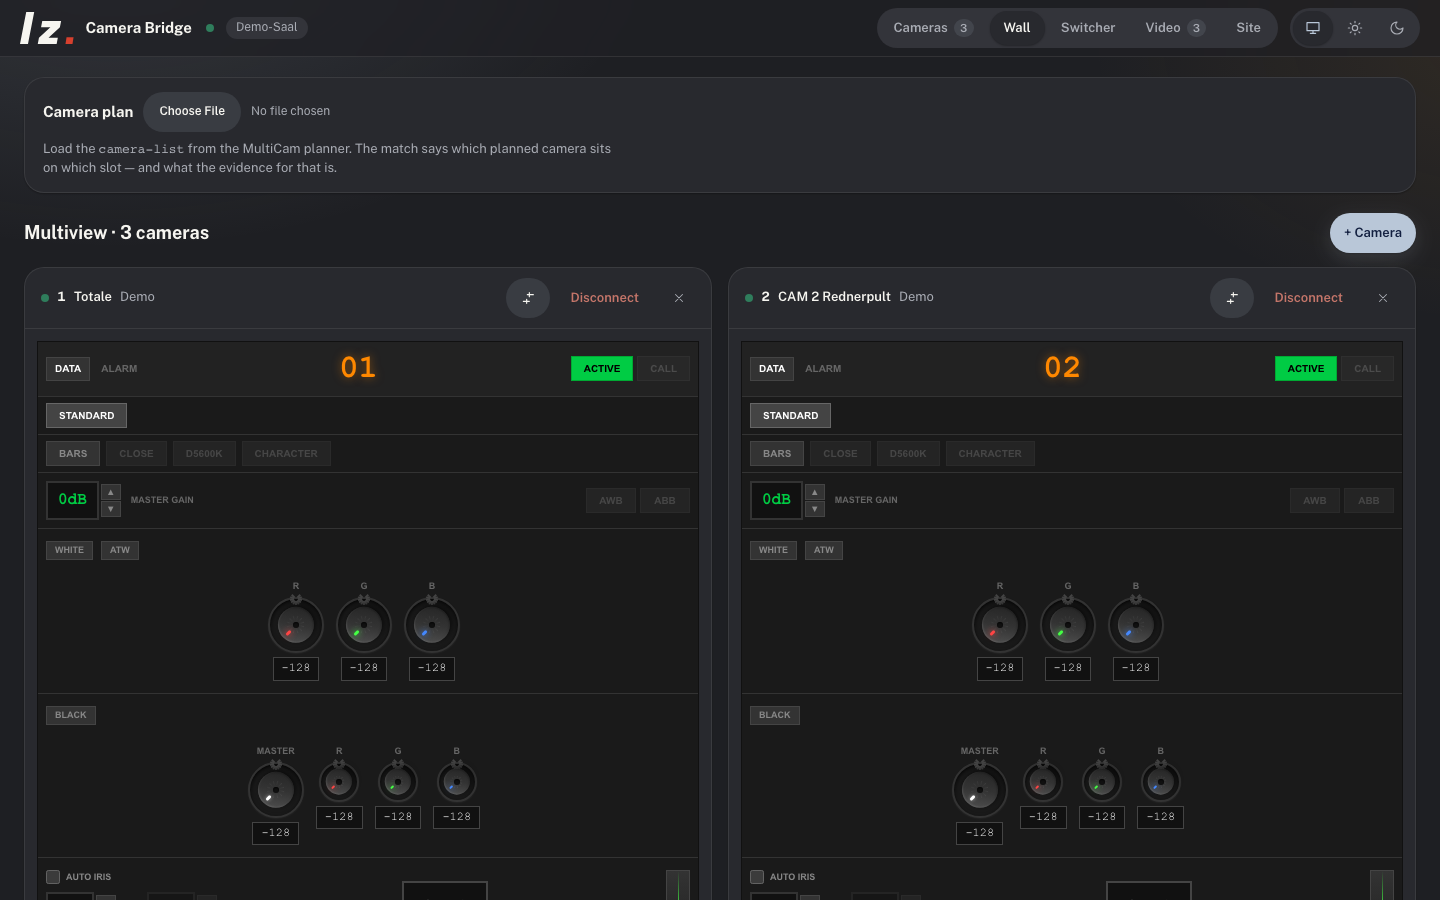
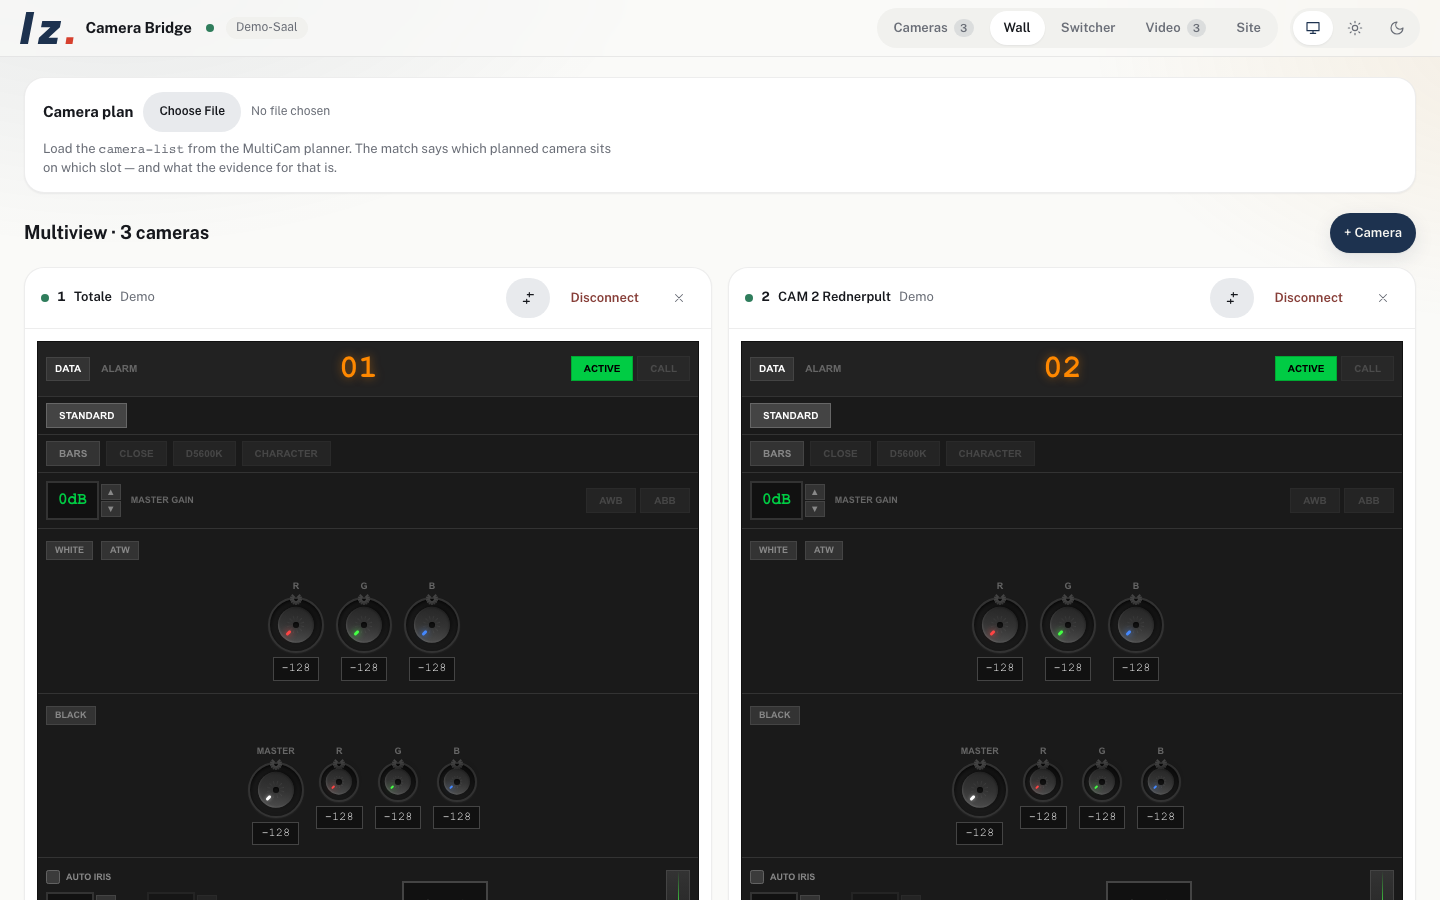
Screenshots neu: alle Oberflaechenbilder hell, dazu dunkle Fassung
README zeigt per <picture> die dunkle Aufnahme, wenn das System dunkel
ist. Aufgenommen gegen Demo-Kameras und ffmpeg-Testbilder, ohne Geraete.

Claude-Session: https://claude.ai/code/session_01CUAtcFcAJ9bnS65gizg7H4

diff --git a/README.md b/README.md
@@ -6,7 +6,7 @@ AW‑RP150 — plus a normalizing **command bus** that drives cameras from many
 vendors over their native protocols. The same commands also reach every camera
 from a Bitfocus **Companion** surface or a USB **control panel**.
 
-![LZ Camera Bridge — PTZ panel with the planned shots of a camera, light theme](docs/screenshots/ptz-planned-shots.png)
+<picture><source media="(prefers-color-scheme: dark)" srcset="docs/screenshots/ptz-planned-shots-dark.png"><img src="docs/screenshots/ptz-planned-shots.png" alt="LZ Camera Bridge — PTZ panel with the planned shots of a camera"></picture>
 
 > **Status:** the bridge, protocols and UI are real and build clean; a
 > committed unit-test suite covers the protocol framing. Where a family was
@@ -179,14 +179,15 @@ former `av-control-center` application (2026-09-28) and replaces it.
 
 | | |
 |---|---|
-| ![Switcher view: programme row over preview row, CUT, the twelve layouts](docs/screenshots/switcher.png) | ![Video view: live tiles with programme and preview tally](docs/screenshots/video.png) |
+| <picture><source media="(prefers-color-scheme: dark)" srcset="docs/screenshots/switcher-dark.png"><img src="docs/screenshots/switcher.png" alt="Switcher view: programme row over preview row, CUT, the twelve layouts"></picture> | <picture><source media="(prefers-color-scheme: dark)" srcset="docs/screenshots/video-dark.png"><img src="docs/screenshots/video.png" alt="Video view: live tiles with programme and preview tally"></picture> |
 | **Switcher** — PGM over PVW, CUT, layouts, audio | **Video** — live tiles from RTSP/RTMP/SRT, tally on the top edge |
-| ![Wall view: every camera's panel at once](docs/screenshots/wall.png) | ![Site view: cameras and switcher of the room, export and import](docs/screenshots/site.png) |
+| <picture><source media="(prefers-color-scheme: dark)" srcset="docs/screenshots/wall-dark.png"><img src="docs/screenshots/wall.png" alt="Wall view: every camera's panel at once"></picture> | <picture><source media="(prefers-color-scheme: dark)" srcset="docs/screenshots/site-dark.png"><img src="docs/screenshots/site.png" alt="Site view: cameras and switcher of the room, export and import"></picture> |
 | **Wall** — every camera's panel at once | **Site** — the room as one file |
 
 Taken 2026-10-14 against demo cameras, a switcher with no device behind it
 and ffmpeg test patterns streamed over RTMP — no real room, so nothing to
-blank out. Switcher and Wall in the dark theme, the others in the light one.
+blank out. Light theme; GitHub shows the dark captures (`*-dark.png`) when
+your system is dark.
 
 ### Interface
 
